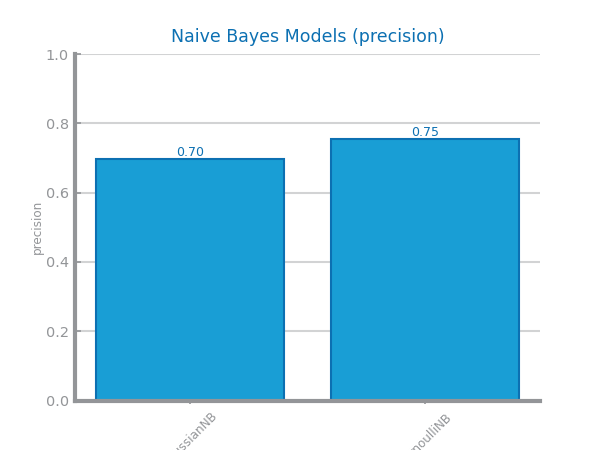
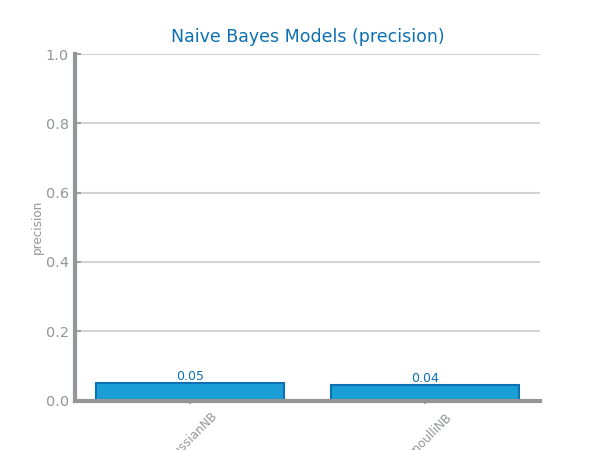
New preparation images for the classification dataset

diff --git a/Data_Preparation/processing_scaling_security.py b/Data_Preparation/processing_scaling_security.py
@@ -6,32 +6,35 @@ from sklearn.preprocessing import StandardScaler, MinMaxScaler
 from matplotlib.pyplot import savefig, subplots, show
 
 file_tag = "class_ny_arrests"
-filename = f"Data/{file_tag}_replacing_outliers.csv"
+filename = f"Data/test_{file_tag}_replacing_outliers.csv"
+filename_train = f"Data/train_{file_tag}_replacing_outliers.csv"
 data: DataFrame = read_csv(filename, na_values="", index_col=None)
+data_train: DataFrame = read_csv(filename_train, na_values="", index_col=None)
 print(f"Original data: {data.shape}")
 target = "CLASS"
 vars: list[str] = data.columns.to_list()
 target_data: Series = data.pop(target)
+data_train.pop(target)
 
-transf: StandardScaler = StandardScaler(with_mean=True, with_std=True, copy=True).fit(data)
+transf: StandardScaler = StandardScaler(with_mean=True, with_std=True, copy=True).fit(data_train)
 df_zscore = DataFrame(transf.transform(data), columns=data.columns, index=data.index)
 df_zscore[target] = target_data
-df_zscore.to_csv(f"Data/{file_tag}_scaled_zscore.csv", index=None)
+df_zscore.to_csv(f"Data/test_{file_tag}_scaled_zscore.csv", index=None)
 """
 MinMax Scaler for the NY Arrests dataset
 """
-transf: MinMaxScaler = MinMaxScaler(feature_range=(0, 1), copy=True).fit(data)
+transf: MinMaxScaler = MinMaxScaler(feature_range=(0, 1), copy=True).fit(data_train)
 df_minmax = DataFrame(transf.transform(data), columns=data.columns, index=data.index)
 df_minmax[target] = target_data
-df_minmax.to_csv(f"Data/{file_tag}_scaled_minmax.csv", index=None)
+df_minmax.to_csv(f"Data/test_{file_tag}_scaled_minmax.csv", index=None)
 
 """
 Results
 """
 file_tag = "class_ny_arrests"
-filename = f"Data/{file_tag}_scaled_minmax.csv"
+filename = f"Data/test_{file_tag}_scaled_minmax.csv"
 df_minmax: DataFrame = read_csv(filename, na_values="", index_col=None)
-filename = f"Data/{file_tag}_scaled_zscore.csv"
+filename = f"Data/test_{file_tag}_scaled_zscore.csv"
 df_zscore: DataFrame = read_csv(filename, na_values="", index_col=None)
 
 fig, axs = subplots(1, 3, figsize=(20, 10), squeeze=False)

diff --git a/Data_Preparation/processing_balancing_security.py b/Data_Preparation/processing_balancing_security.py
@@ -35,7 +35,7 @@ show()
 "apply oversampling"
 df_positives: Series = original[original[target] == positive_class]
 df_negatives: Series = original[original[target] == negative_class]
-'''
+
 df_pos_sample: DataFrame = DataFrame(
     df_positives.sample(len(df_negatives), replace=True)
 )
@@ -45,7 +45,7 @@ df_over.to_csv(f"Data/{file_tag}_oversampling.csv", index=False)
 print("Minority class=", positive_class, ":", len(df_pos_sample))
 print("Majority class=", negative_class, ":", len(df_negatives))
 print("Proportion:", round(len(df_pos_sample) / len(df_negatives), 2), ": 1")
-'''
+
 "apply undersampling"
 df_neg_sample: DataFrame = DataFrame(df_negatives.sample(len(df_positives)))
 df_under: DataFrame = concat([df_positives, df_neg_sample], axis=0)
@@ -59,7 +59,7 @@ print("Proportion:", round(len(df_positives) / len(df_neg_sample), 2), ": 1")
 #"""SMOTE"""
 #
 RANDOM_STATE = 42
-'''
+
 smote: SMOTE = SMOTE(sampling_strategy="minority", random_state=RANDOM_STATE)
 y = original.pop(target).values
 X: ndarray = original.values
@@ -77,4 +77,3 @@ print(
     ": 1",
 )
 print(df_smote.shape)
-'''

diff --git a/Data_Preparation/processing_methodology_security.py b/Data_Preparation/processing_methodology_security.py
@@ -65,13 +65,13 @@ def evaluate_approach(
 #    show()
 filename = "Data/class_ny_arrests.csv"
 file_tag = "class_ny_arrests"
-train: DataFrame = read_csv(f"Data/{file_tag}_train_{method_tag}.csv")
-test: DataFrame = read_csv(f"Data/{file_tag}_test_{method_tag}.csv")
+train: DataFrame = read_csv(f"Data/{file_tag}_under.csv")
+test: DataFrame = read_csv(f"Data/test_{file_tag}_scaled_zscore.csv")
 
 figure()
 eval: dict[str, list] = evaluate_approach(train, test, target="CLASS", metric="recall")
 plot_multibar_chart(
     ["NB", "KNN"], eval, title=f"{file_tag} evaluation", percentage=True
 )
-savefig(f"./{file_tag}_eval_feature_engineering.png")
+savefig(f"./{file_tag}_eval_under.png")
 show()

diff --git a/Data_Preparation/generating_tests.py b/Data_Preparation/generating_tests.py
@@ -2,7 +2,7 @@ import pandas as pd
 from sklearn.model_selection import train_test_split
 
 # Load the dataset
-method_tag = "scaled_zscore" 
+method_tag = "replacing_outliers" 
 file_tag = "class_ny_arrests"
 filename = f"Data/{file_tag}_{method_tag}.csv"  # Replace with your dataset's filename
 data = pd.read_csv(filename, na_values="", index_col=None)
@@ -34,7 +34,7 @@ data = data.drop(columns=["JURISDICTION_CODE"])
     #
     #data.to_csv(filename, index=False)
     
-to_keep = data.sample(frac = 0.05)
+to_keep = data.sample(frac = 0.1)
 
 train_data, test_data = train_test_split(to_keep, test_size=0.3, random_state=42)
 

diff --git a/Classification/processing_NB_security.py b/Classification/processing_NB_security.py
@@ -9,7 +9,7 @@ import pandas as pd
 
 target = "CLASS"
 file_tag = "class_ny_arrests"
-train_filename = "Data/train_class_ny_arrests_scaled_zscore.csv"
+train_filename = "Data/class_ny_arrests_smote.csv"
 test_filename = "Data/test_class_ny_arrests_scaled_zscore.csv"
 eval_metric = "accuracy"
 

diff --git a/Classification/processing_KNN_security.py b/Classification/processing_KNN_security.py
@@ -39,7 +39,7 @@ def knn_study(
 
 target = "CLASS"
 file_tag = "class_ny_arrests"
-train_filename = "Data/train_class_ny_arrests_scaled_zscore.csv"
+train_filename = "Data/class_ny_arrests_smote.csv"
 test_filename = "Data/test_class_ny_arrests_scaled_zscore.csv"
 eval_metric = "accuracy"
 
